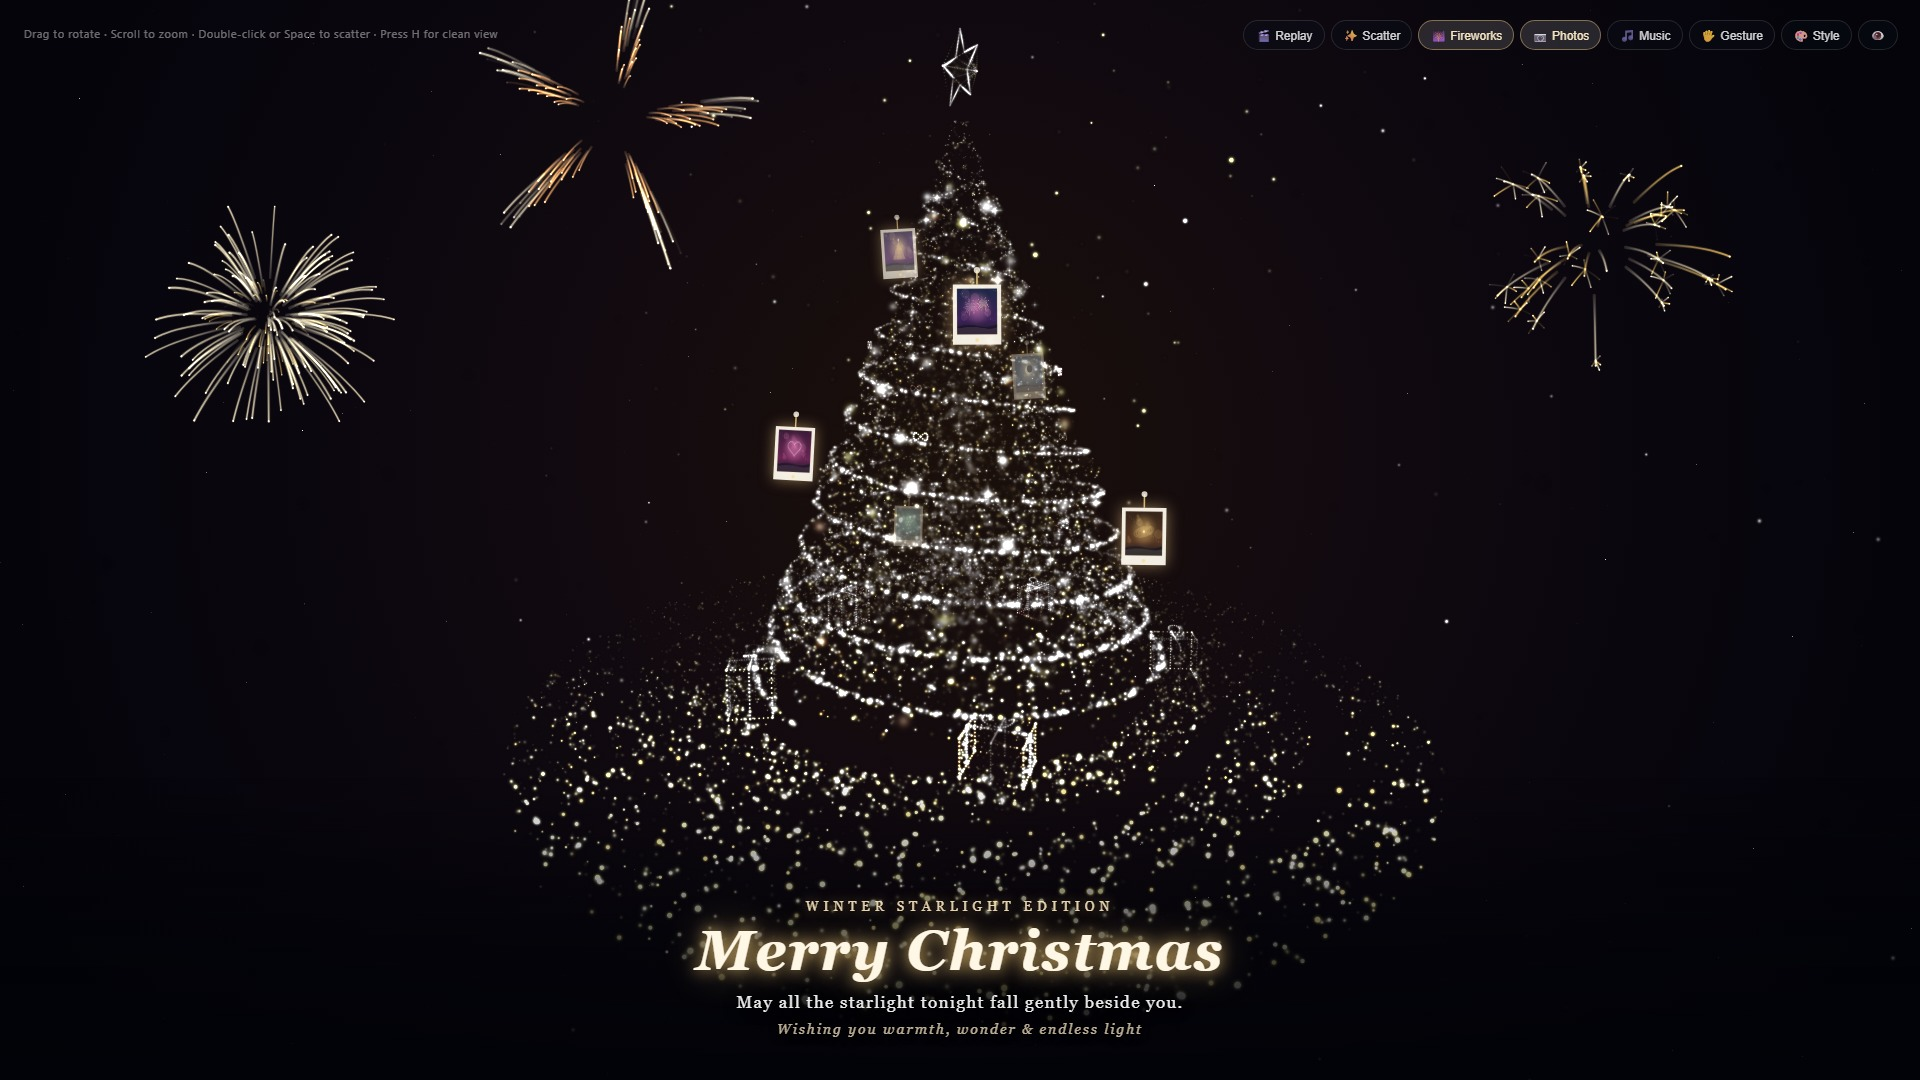
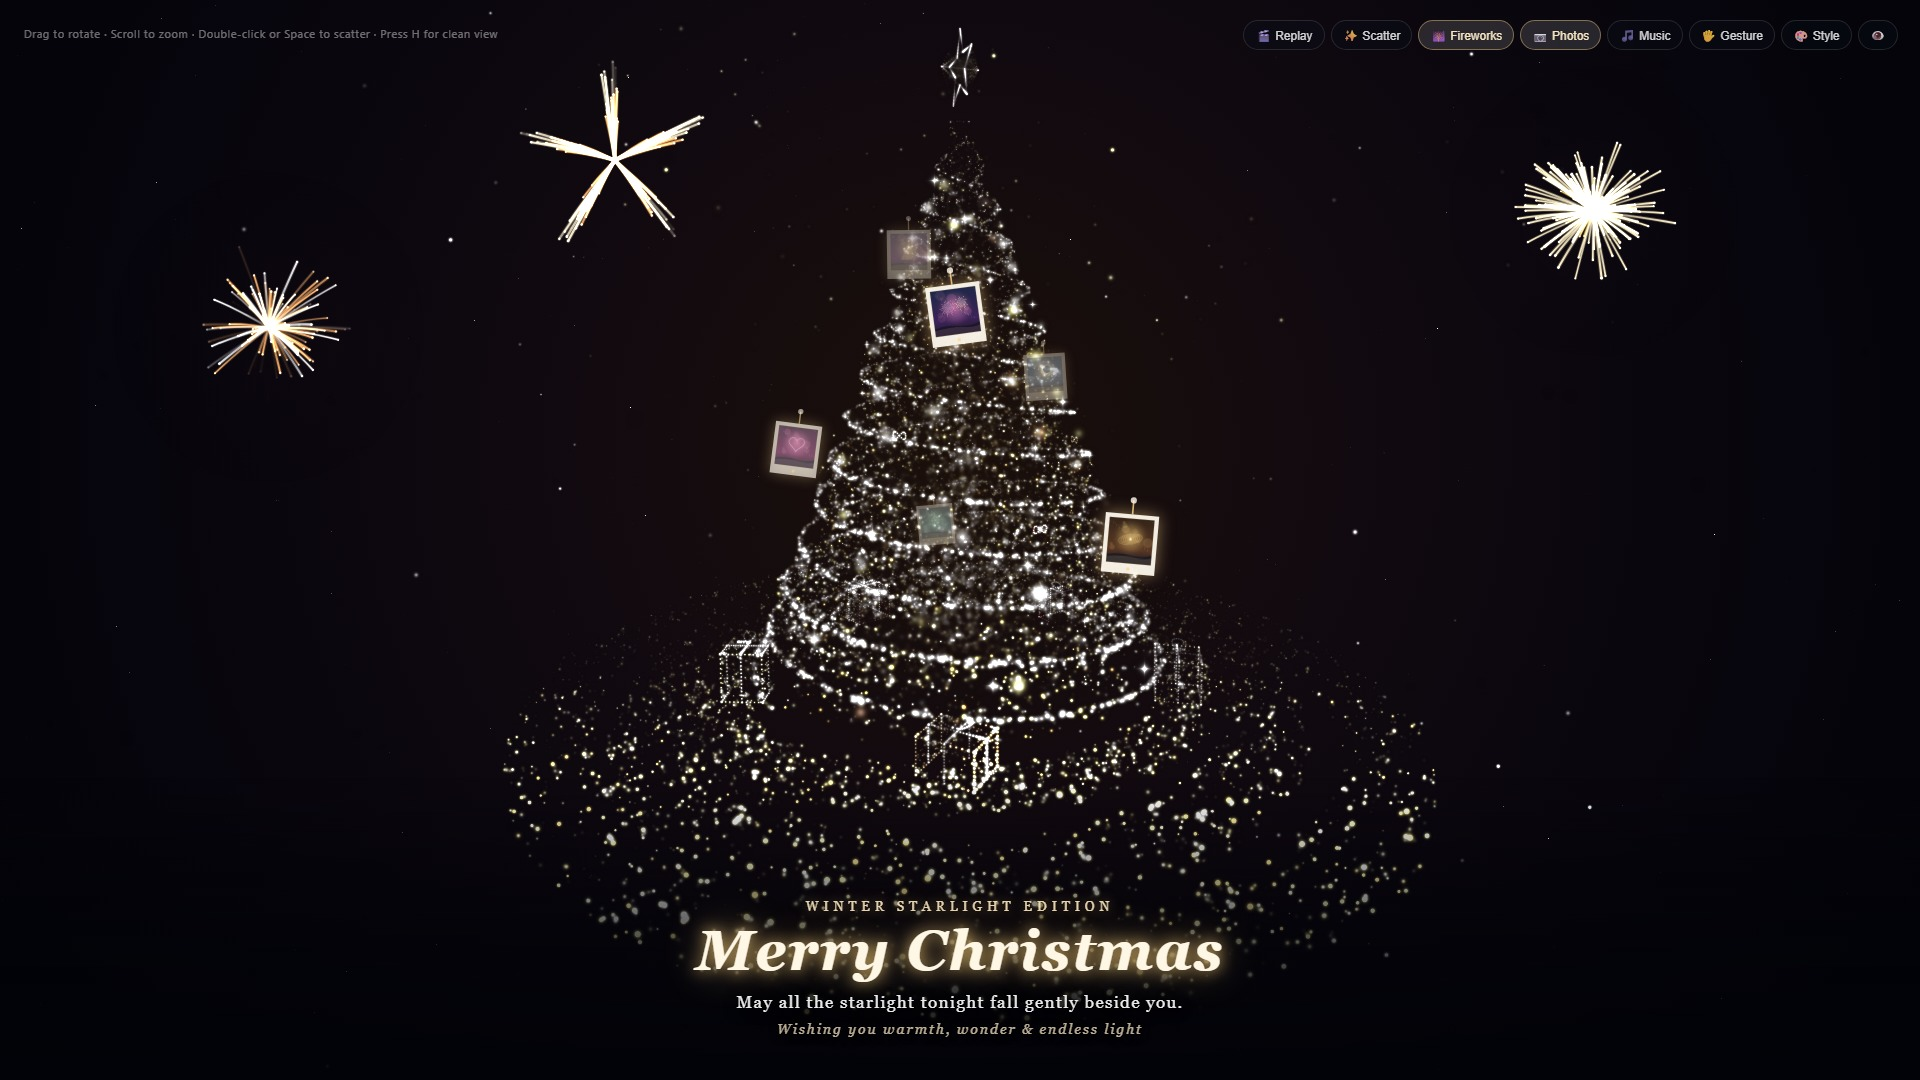
fix(photos,audio): eliminate Polaroid aspect distortion and support custom BGM track

diff --git a/index.html b/index.html
@@ -427,7 +427,8 @@
       padding: 15px 15px 24px;
       border-radius: 7px;
       box-shadow: 0 24px 64px rgba(0, 0, 0, 0.78), 0 0 42px rgba(255, 214, 138, 0.24);
-      width: 100%;
+      width: fit-content;
+      max-width: min(84vw, 440px);
       transform: scale(0.9) rotate(-1deg);
       transition: transform 0.32s cubic-bezier(0.22, 1, 0.36, 1);
       text-align: center;
@@ -437,12 +438,14 @@
 
     .polaroid-focus img {
       display: block;
-      width: 100%;
-      aspect-ratio: 1 / 1;
-      max-height: 52vh;
-      object-fit: cover;
+      width: auto;
+      height: auto;
+      max-width: min(76vw, 400px);
+      max-height: 58vh;
+      margin: 0 auto;
+      object-fit: contain;
       border-radius: 3px;
-      background: #0d0f18;
+      background: #14121b;
       box-shadow: inset 0 0 0 1px rgba(0, 0, 0, 0.08);
     }
 
@@ -2096,6 +2099,23 @@
         return c.toDataURL('image/jpeg', 0.90);
       }
 
+      function drawImageCover(ctx, img, dx, dy, dw, dh) {
+        const iw = img.naturalWidth || img.width;
+        const ih = img.naturalHeight || img.height;
+        if (!iw || !ih) return;
+        const imgAspect = iw / ih;
+        const boxAspect = dw / dh;
+        let sx = 0, sy = 0, sw = iw, sh = ih;
+        if (imgAspect > boxAspect) {
+          sw = ih * boxAspect;
+          sx = (iw - sw) * 0.5;
+        } else if (imgAspect < boxAspect) {
+          sh = iw / boxAspect;
+          sy = (ih - sh) * 0.5;
+        }
+        ctx.drawImage(img, sx, sy, sw, sh, dx, dy, dw, dh);
+      }
+
       function setPolaroidItems(items) {
         photoFrames = [];
         const list = items.slice(0, 18);
@@ -2389,10 +2409,15 @@
           for (let i = 0; i < projectedFrames.length; i++) {
             const { pf, p } = projectedFrames[i];
             pf.depth = p.depth;
-            const rotSq = Math.max(0.56, Math.min(1.0, (camDist + 140 - p.depth) / 240));
-            const cardW = (34 + state.scatter * 16) * p.scale * (0.72 + 0.28 * rotSq);
-            const cardH = (34 + state.scatter * 16) * p.scale * 1.24;
-            const pad = cardW * 0.085;
+            const natW = pf.img.naturalWidth || 1;
+            const natH = pf.img.naturalHeight || 1;
+            const imgRatio = Math.max(0.68, Math.min(1.45, natW / natH));
+            const baseScale = (34 + state.scatter * 16) * p.scale;
+            const imgW = imgRatio >= 1 ? baseScale * 0.94 : baseScale * 0.94 * imgRatio;
+            const imgH = imgRatio >= 1 ? (baseScale * 0.94) / imgRatio : baseScale * 0.94;
+            const pad = Math.max(imgW, imgH) * 0.095;
+            const cardW = imgW + pad * 2;
+            const cardH = imgH + pad * 3.4;
             const depthFade = p.depth > camDist + 30 ? 0.34 : (p.depth > camDist - 10 ? 0.68 : 0.96);
             pf.screenRect = { x: p.sx - cardW * 0.5, y: p.sy - cardH * 0.5, w: cardW, h: cardH };
 
@@ -2425,9 +2450,7 @@
             ovCtx.fillRect(-cardW * 0.5, -cardH * 0.5, cardW, cardH);
             ovCtx.shadowBlur = 0;
 
-            const imgW = cardW - pad * 2;
-            const imgH = cardH - pad * 3.5;
-            ovCtx.drawImage(pf.img, -imgW * 0.5, -cardH * 0.5 + pad, imgW, imgH);
+            drawImageCover(ovCtx, pf.img, -imgW * 0.5, -cardH * 0.5 + pad, imgW, imgH);
 
             // Subtle warm border line + tiny bottom accent mark on Polaroid chin
             ovCtx.strokeStyle = 'rgba(180, 150, 110, 0.28)';
@@ -2732,7 +2755,10 @@
         }
       });
 
-      // ==================== Music Box ====================
+      // ==================== Background Music (Song Track + Music Box Fallback) ====================
+      const BGM_SRC = '';
+      const BGM_LABEL = 'Music Box';
+      let bgmAudio = null;
       let audioCtx = null, musicPlaying = false, musicTimer = null, noteIndex = 0;
       const MELODY = [
         [392, 1], [523.25, 1], [523.25, 0.5], [587.33, 0.5], [523.25, 0.5], [493.88, 0.5],
@@ -2772,21 +2798,56 @@
         musicTimer = setTimeout(scheduleNextNote, durMs);
       }
 
-      document.getElementById('btnMusic').addEventListener('click', () => {
-        musicPlaying = !musicPlaying;
-        document.getElementById('btnMusic').classList.toggle('active', musicPlaying);
+      function setMusicUi(on) {
+        musicPlaying = on;
+        document.getElementById('btnMusic').classList.toggle('active', on);
+        const mobM = document.getElementById('mobMusic');
+        if (mobM) mobM.classList.toggle('active', on);
+      }
+
+      async function toggleMusic(silentIfBlocked = false) {
         if (musicPlaying) {
-          if (!audioCtx) {
-            const AudioCtx = window.AudioContext || window.webkitAudioContext;
-            audioCtx = new AudioCtx();
-          }
-          if (audioCtx.state === 'suspended') audioCtx.resume();
-          scheduleNextNote();
-          showToast('Music Box On ♪');
-        } else {
+          setMusicUi(false);
           clearTimeout(musicTimer);
+          if (bgmAudio) bgmAudio.pause();
+          return;
         }
-      });
+        if (BGM_SRC) {
+          try {
+            if (!bgmAudio) {
+              bgmAudio = new Audio(BGM_SRC);
+              bgmAudio.loop = true;
+              bgmAudio.volume = 0.72;
+              bgmAudio.preload = 'auto';
+            }
+            await bgmAudio.play();
+            setMusicUi(true);
+            showToast(`♪ ${BGM_LABEL}`);
+            return;
+          } catch (err) {
+            if (silentIfBlocked) return;
+          }
+        }
+        if (!audioCtx) {
+          const AudioCtx = window.AudioContext || window.webkitAudioContext;
+          audioCtx = new AudioCtx();
+        }
+        if (audioCtx.state === 'suspended') audioCtx.resume();
+        setMusicUi(true);
+        scheduleNextNote();
+        showToast(`${BGM_LABEL} On ♪`);
+      }
+
+      document.getElementById('btnMusic').addEventListener('click', () => toggleMusic(false));
+      if (BGM_SRC) {
+        const unlockBgmOnce = () => {
+          if (!musicPlaying) toggleMusic(true);
+          window.removeEventListener('pointerdown', unlockBgmOnce);
+          window.removeEventListener('keydown', unlockBgmOnce);
+        };
+        window.addEventListener('pointerdown', unlockBgmOnce, { once: true });
+        window.addEventListener('keydown', unlockBgmOnce, { once: true });
+      }
 
       // ==================== Hand Gesture Control ====================
       const btnGesture = document.getElementById('btnGesture');
